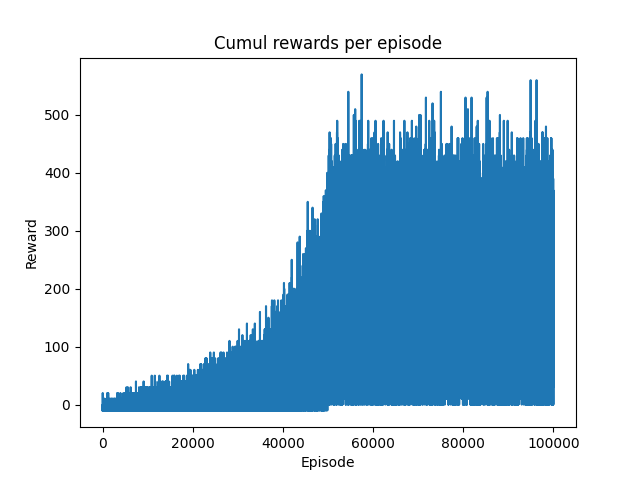
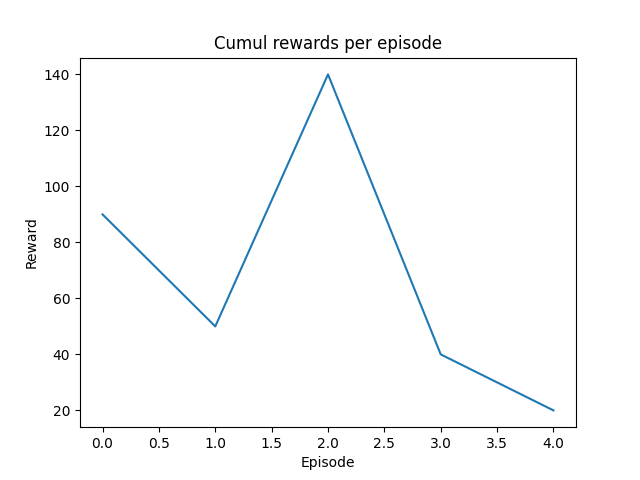
feat: some q learning results

diff --git a/q_learning/q_learning.py b/q_learning/q_learning.py
@@ -11,7 +11,7 @@ def run(episodes=1000, episode_len=10_000,is_training=True, render=False, model=
   reward_path = Path('./q_learning') / (model + '.png')
   error_path = Path('./q_learning') / (model + '_error.png')
   
-  env = SnakeEnv(render_mode='human' if render else None)
+  env = SnakeEnv(render_mode='human' if render else None, width=8, height=8)
   
   if(is_training):
        q = np.zeros([int(np.pow(2, env.observation_space.shape[0])), env.action_space.n]) # init a 2^11 (each obs is a boolean and there is 11 obs) x 4 array
@@ -82,4 +82,4 @@ if __name__ == '__main__':
   N_EPISODES = 1_000
   EPISODE_LEN = 10_000
   # run(episodes=N_EPISODES, episode_len=EPISODE_LEN, model='q_learning_model_1k')
-  run(5, 1000,False, True, 'q_learning_model_1k')
+  run(5, 1000,False, True, 'q_learning_model_100k')
